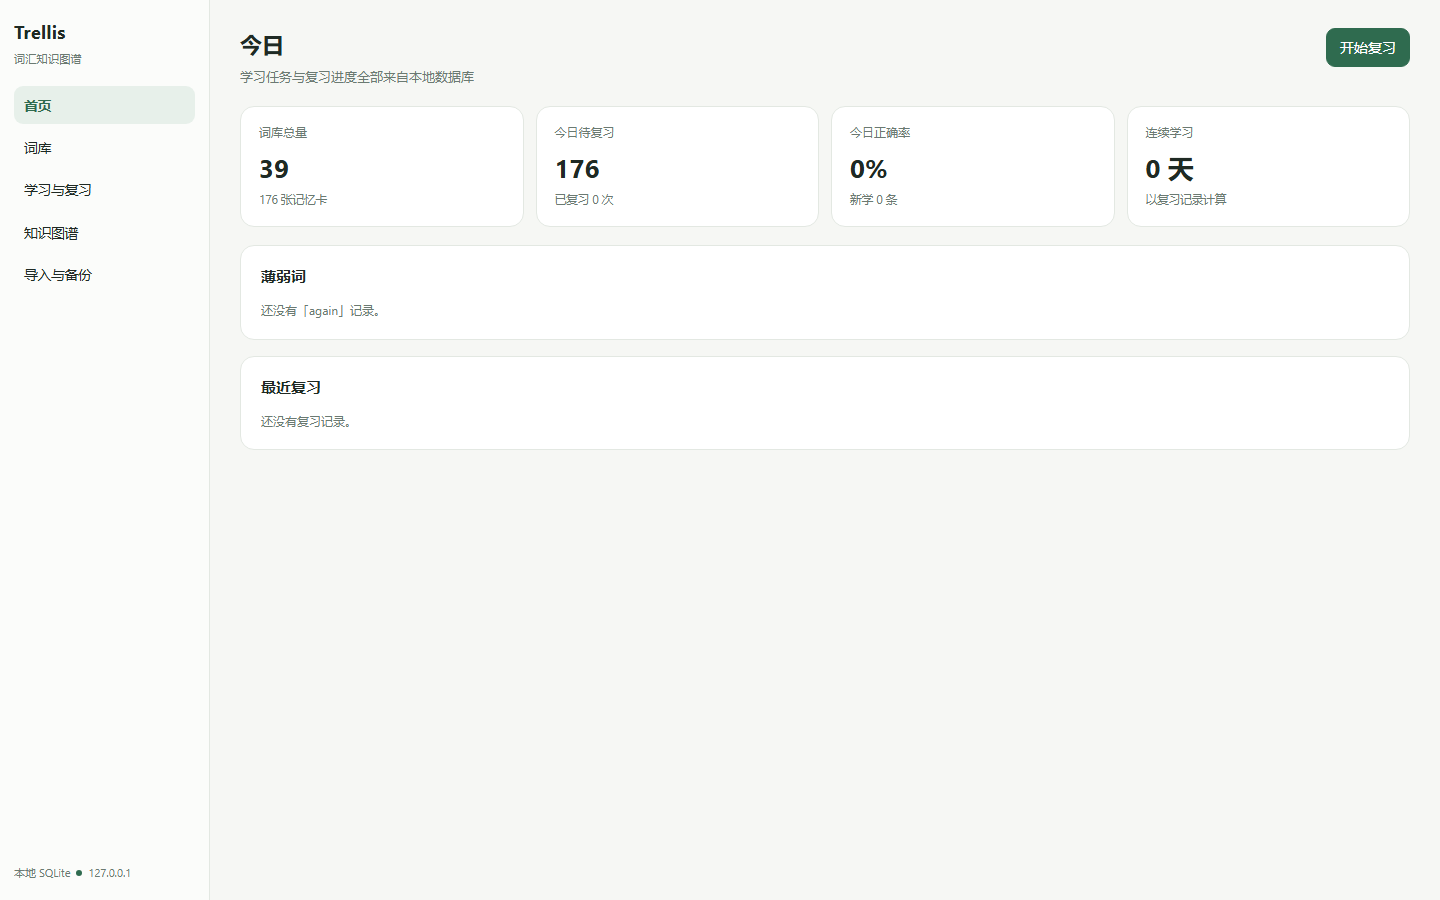
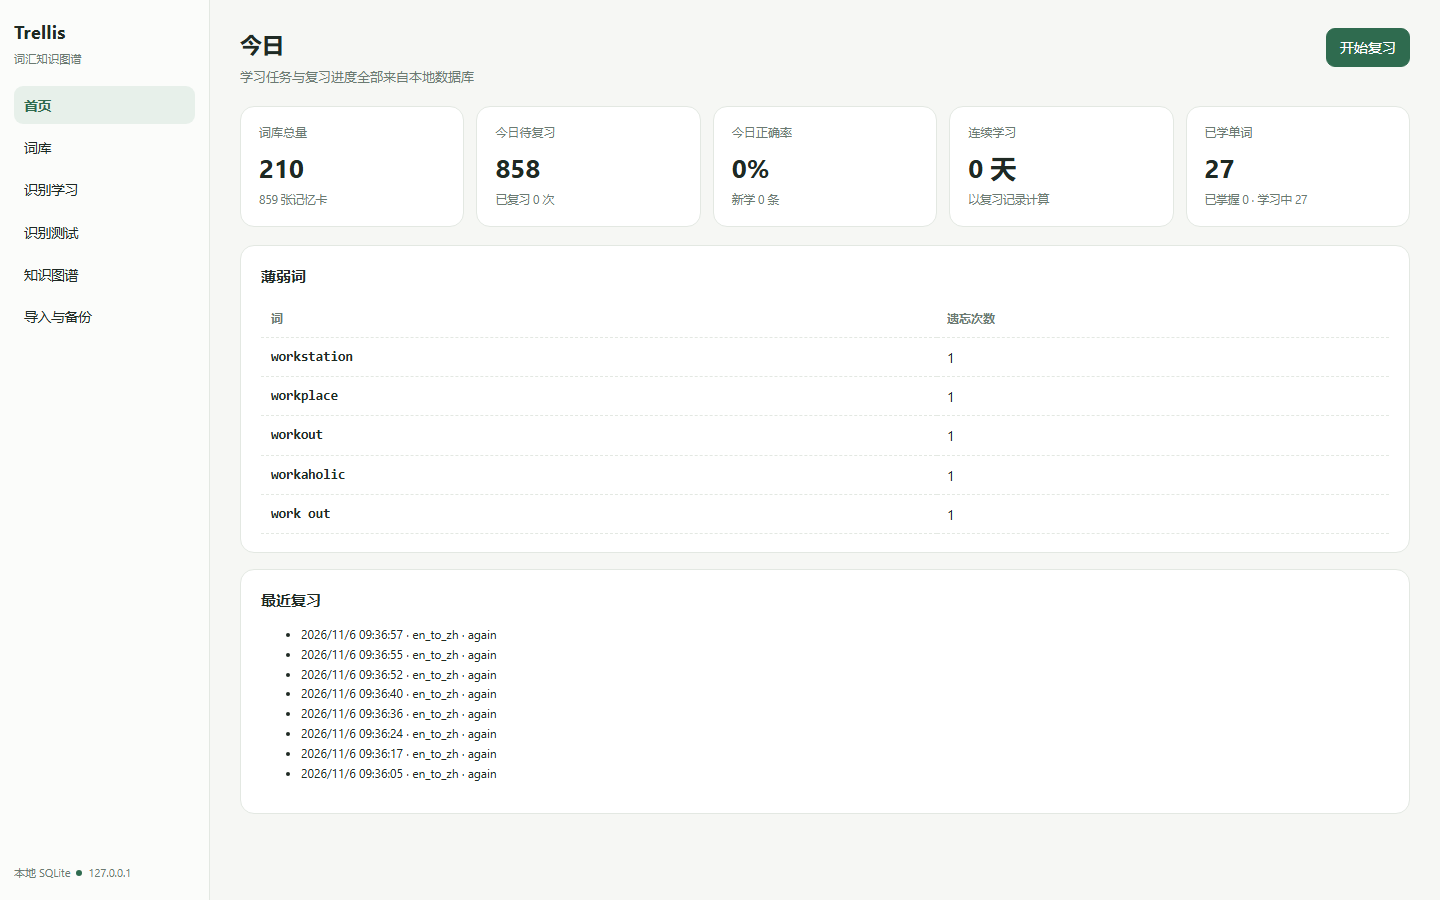
feat: recognition stats (learned/mastered), weak-card queue, dashboard update

diff --git a/frontend/src/pages/Dashboard.tsx b/frontend/src/pages/Dashboard.tsx
@@ -45,6 +45,11 @@ export default function Dashboard() {
               <div className="value">{data.streak_days} 天</div>
               <div className="hint">以复习记录计算</div>
             </div>
+            <div className="card">
+              <div className="label">已学单词</div>
+              <div className="value">{data.learned_lexemes}</div>
+              <div className="hint">已掌握 {data.mastered_lexemes} · 学习中 {data.learning_lexemes}</div>
+            </div>
           </div>
 
           <div className="panel">

diff --git a/frontend/src/types.ts b/frontend/src/types.ts
@@ -91,6 +91,9 @@ export interface Stats {
   reviewed_today: number
   accuracy_today: number
   streak_days: number
+  learned_lexemes: number
+  mastered_lexemes: number
+  learning_lexemes: number
   weak_words: { headword: string; misses: number }[]
 }
 

diff --git a/backend/app/services/stats.py b/backend/app/services/stats.py
@@ -22,9 +22,20 @@ def overview(db: Session, now: datetime | None = None) -> dict:
     start = today_start(current)
 
     total_lexemes = db.scalar(select(func.count()).select_from(Lexeme).where(Lexeme.status == "active")) or 0
-    total_cards = db.scalar(select(func.count()).select_from(MemoryCard)) or 0
+    total_cards = db.scalar(
+        select(func.count())
+        .select_from(MemoryCard)
+        .where(MemoryCard.enabled.is_(True), MemoryCard.direction == "EN_TO_ZH")
+    ) or 0
     due_today = db.scalar(
-        select(func.count()).select_from(ReviewState).where(ReviewState.due_at <= current)
+        select(func.count())
+        .select_from(ReviewState)
+        .join(MemoryCard, MemoryCard.id == ReviewState.card_id)
+        .where(
+            ReviewState.due_at <= current,
+            MemoryCard.enabled.is_(True),
+            MemoryCard.direction == "EN_TO_ZH",
+        )
     ) or 0
     learned_today = db.scalar(
         select(func.count())
@@ -61,6 +72,28 @@ def overview(db: Session, now: datetime | None = None) -> dict:
         .limit(5)
     ).all()
 
+    learned_lexemes = db.scalar(
+        select(func.count(func.distinct(MemoryCard.lexeme_id)))
+        .select_from(MemoryCard)
+        .join(ReviewState, ReviewState.card_id == MemoryCard.id)
+        .where(
+            MemoryCard.enabled.is_(True),
+            MemoryCard.direction == "EN_TO_ZH",
+            ReviewState.reps > 0,
+        )
+    ) or 0
+    mastered_lexemes = db.scalar(
+        select(func.count(func.distinct(MemoryCard.lexeme_id)))
+        .select_from(MemoryCard)
+        .join(ReviewState, ReviewState.card_id == MemoryCard.id)
+        .where(
+            MemoryCard.enabled.is_(True),
+            MemoryCard.direction == "EN_TO_ZH",
+            ReviewState.reps >= 3,
+            ReviewState.lapses <= 1,
+        )
+    ) or 0
+
     return {
         "total_lexemes": total_lexemes,
         "total_cards": total_cards,
@@ -69,5 +102,8 @@ def overview(db: Session, now: datetime | None = None) -> dict:
         "reviewed_today": reviewed_today,
         "accuracy_today": accuracy,
         "streak_days": streak,
+        "learned_lexemes": learned_lexemes,
+        "mastered_lexemes": mastered_lexemes,
+        "learning_lexemes": max(learned_lexemes - mastered_lexemes, 0),
         "weak_words": [{"headword": row[0], "misses": row[1]} for row in weak_rows],
     }

diff --git a/backend/app/api/study.py b/backend/app/api/study.py
@@ -74,6 +74,34 @@ def unit_cards(unit_id: int, db: Session = Depends(get_db)):
     return {"unit": unit.title, "items": items}
 
 
+@router.get("/reviews/weak")
+def weak(limit: int = 30, db: Session = Depends(get_db)):
+    """Recognition cards with a history of lapses, for focused review."""
+    rows = db.execute(
+        select(MemoryCard, ReviewState, Lexeme)
+        .join(ReviewState, ReviewState.card_id == MemoryCard.id)
+        .join(Lexeme, Lexeme.id == MemoryCard.lexeme_id)
+        .where(
+            ReviewState.lapses > 0,
+            MemoryCard.enabled.is_(True),
+            MemoryCard.direction == "EN_TO_ZH",
+        )
+        .order_by(ReviewState.lapses.desc())
+        .limit(limit)
+    ).all()
+    return [
+        {
+            "card_id": card.id,
+            "headword": lexeme.headword,
+            "card_type": card.card_type,
+            "lapses": state.lapses,
+            "reps": state.reps,
+            "due_at": state.due_at,
+        }
+        for card, state, lexeme in rows
+    ]
+
+
 @router.post("/reviews/submit")
 def submit(payload: ReviewSubmit, db: Session = Depends(get_db)):
     try:
